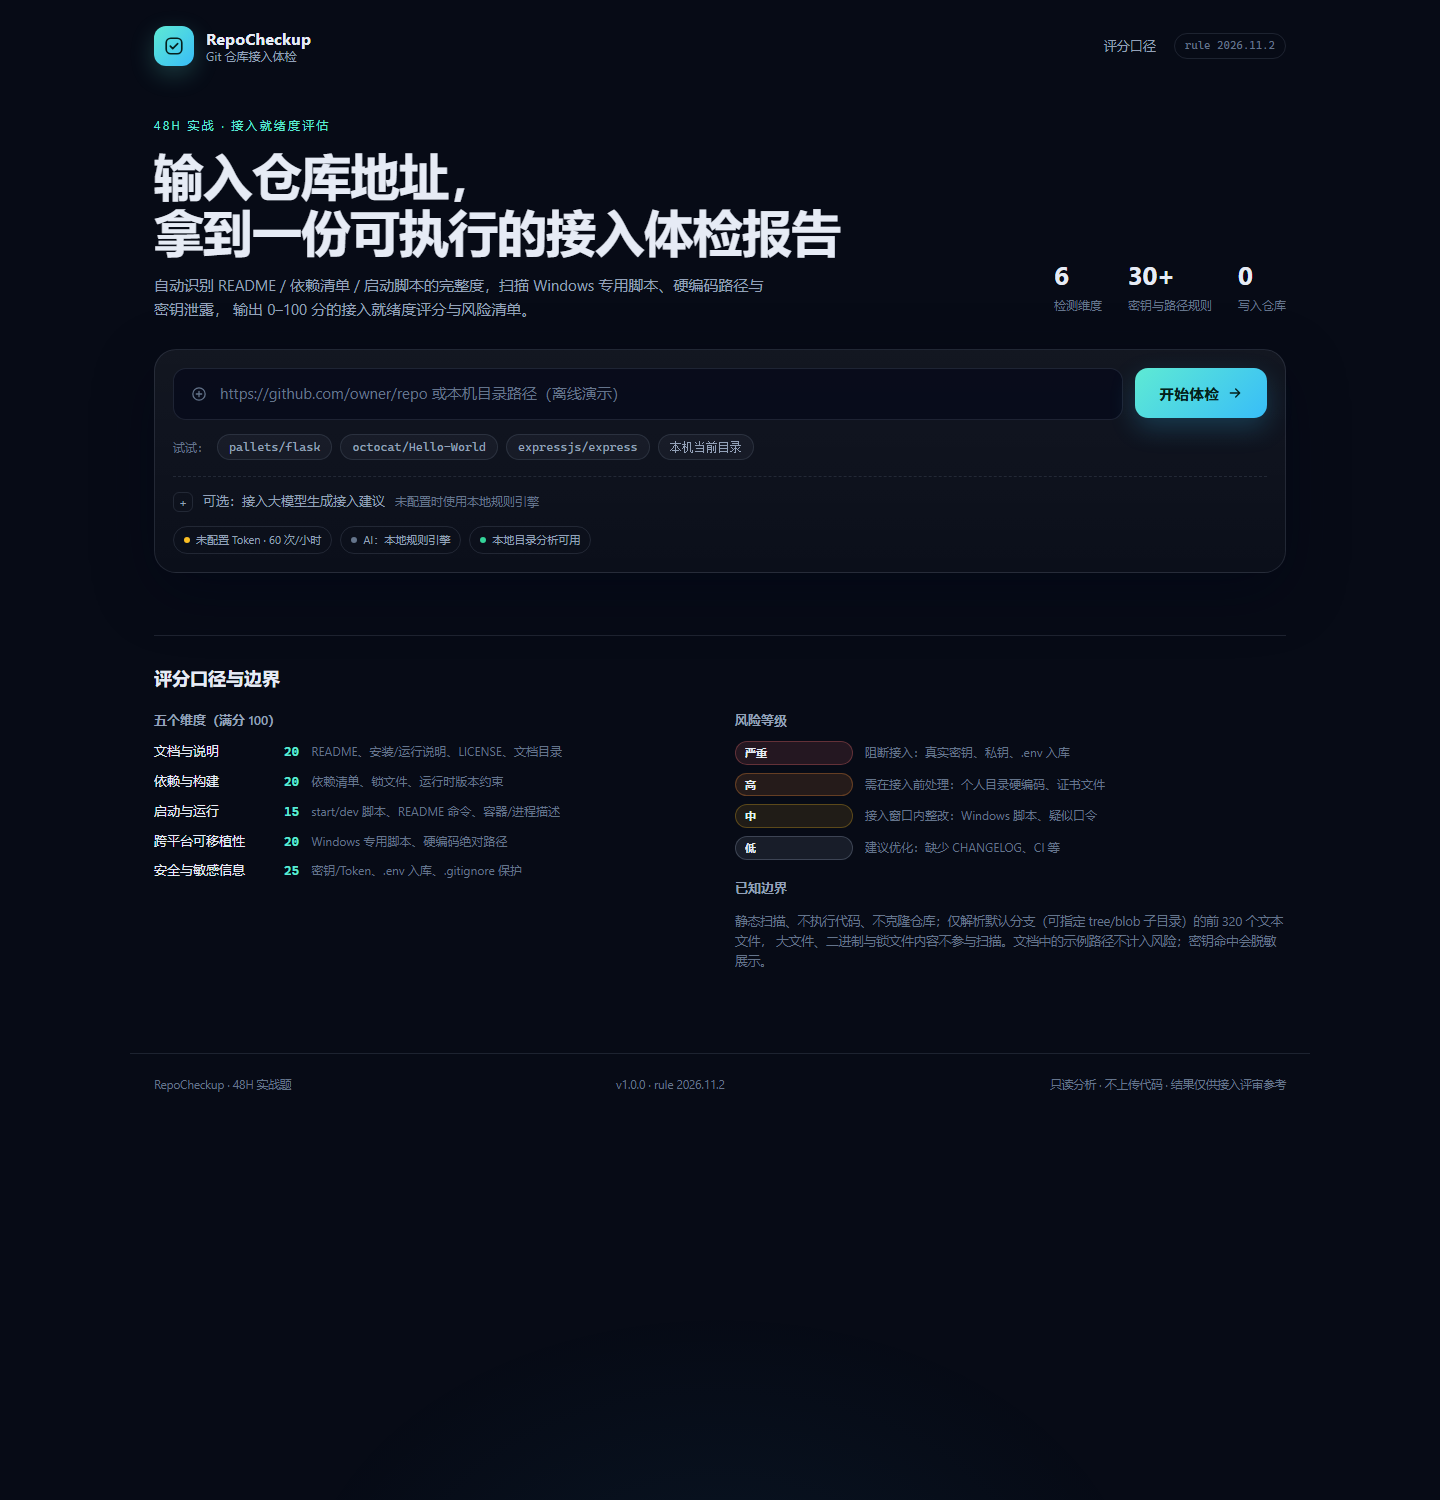
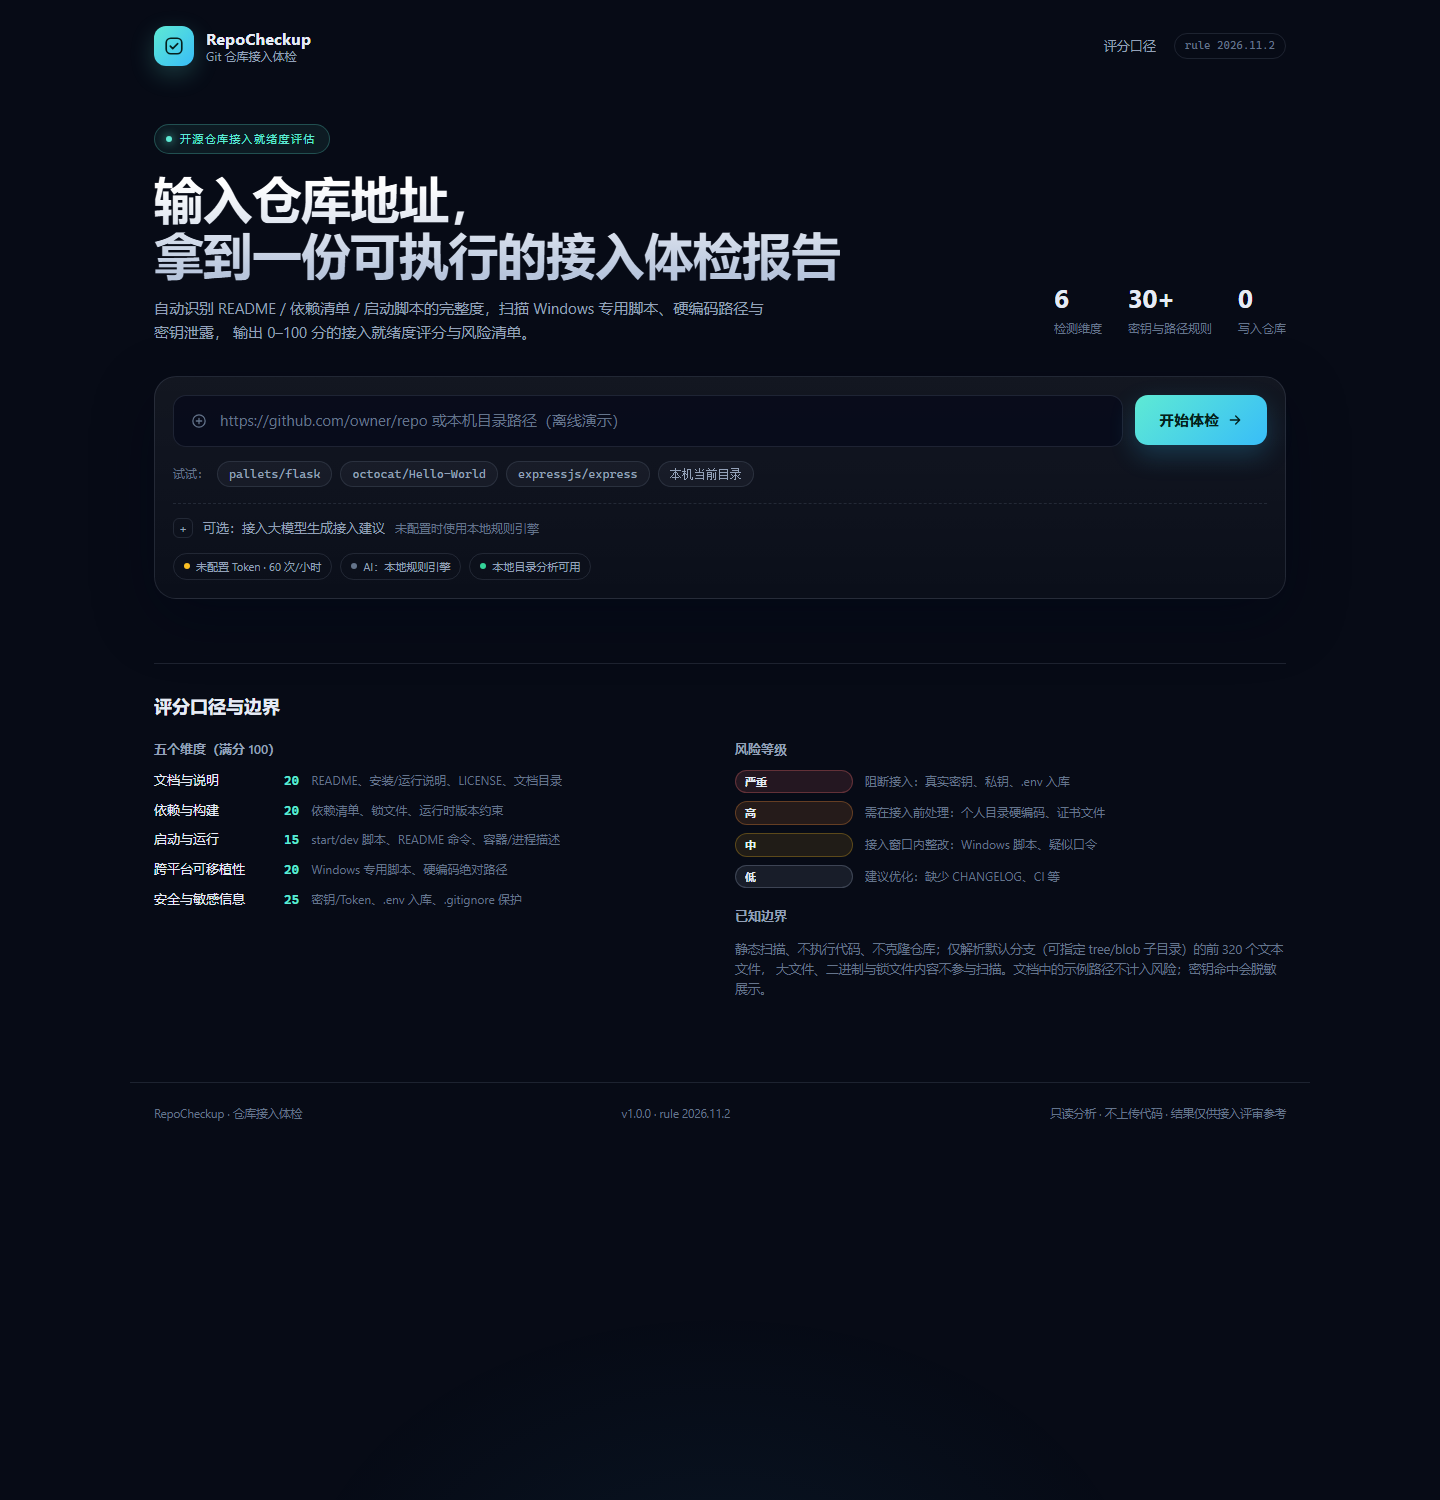
style: 首页视觉升级，去掉作业标签
- 眉标改为「开源仓库接入就绪度评估」胶囊样式，页脚改为「RepoCheckup · 仓库接入体检」
- 标题渐变、输入卡聚焦光晕、主按钮高光、卡片悬浮、评分环发光、标签页高亮等细节打磨
- 同步更新 docs/screenshots 首页与报告页截图

diff --git a/web/styles.css b/web/styles.css
@@ -854,6 +854,138 @@ h1 {
   .risk-file { max-width: 100%; }
 }
 
+/* ---------- 视觉升级 ---------- */
+::selection { background: rgba(94, 234, 212, 0.28); color: #fff; }
+
+::-webkit-scrollbar { width: 10px; height: 10px; }
+::-webkit-scrollbar-track { background: transparent; }
+::-webkit-scrollbar-thumb {
+  background: rgba(148, 163, 184, 0.22);
+  border: 2px solid transparent;
+  border-radius: 8px;
+  background-clip: content-box;
+}
+::-webkit-scrollbar-thumb:hover { background: rgba(148, 163, 184, 0.38); background-clip: content-box; }
+
+:focus-visible { outline: 2px solid rgba(94, 234, 212, 0.6); outline-offset: 2px; }
+
+/* 标题：顶部高光到冷灰的渐变字 */
+h1 {
+  background: linear-gradient(180deg, #ffffff 12%, #b7c5dc 94%);
+  -webkit-background-clip: text;
+  background-clip: text;
+  color: transparent;
+}
+
+/* 眉标改成带呼吸点的胶囊 */
+.eyebrow {
+  display: inline-flex;
+  align-items: center;
+  gap: 8px;
+  margin-bottom: 16px;
+  padding: 5px 13px 5px 11px;
+  border: 1px solid rgba(94, 234, 212, 0.26);
+  border-radius: 999px;
+  background: rgba(94, 234, 212, 0.07);
+  font-size: 11px;
+  letter-spacing: 0.12em;
+}
+.eyebrow::before {
+  content: "";
+  width: 6px;
+  height: 6px;
+  border-radius: 50%;
+  background: var(--accent);
+  box-shadow: 0 0 10px var(--accent);
+}
+
+.hero { padding: 30px 0 10px; }
+.hero-head { margin-bottom: 32px; }
+
+/* 输入卡片：聚焦时出现一圈薄光 */
+#analyze-form { transition: border-color 0.25s ease, box-shadow 0.25s ease; }
+#analyze-form:hover { border-color: var(--border-strong); }
+#analyze-form:focus-within {
+  border-color: rgba(94, 234, 212, 0.4);
+  box-shadow: 0 0 0 1px rgba(94, 234, 212, 0.16), 0 26px 72px rgba(2, 6, 23, 0.55);
+}
+
+.input-wrap { transition: border-color 0.2s ease, background 0.2s ease; }
+.input-wrap:focus-within { border-color: rgba(94, 234, 212, 0.5); background: rgba(2, 6, 23, 0.78); }
+
+/* 主按钮：掠过式高光 */
+.btn-primary { position: relative; overflow: hidden; }
+.btn-primary::after {
+  content: "";
+  position: absolute;
+  inset: 0;
+  background: linear-gradient(115deg, transparent 32%, rgba(255, 255, 255, 0.38) 50%, transparent 68%);
+  transform: translateX(-130%);
+  transition: transform 0.65s ease;
+  pointer-events: none;
+}
+.btn-primary:hover:not(:disabled)::after { transform: translateX(130%); }
+
+/* 示例胶囊 */
+.chip { transition: transform 0.18s ease, border-color 0.18s ease, color 0.18s ease, background 0.18s ease; }
+.chip:hover {
+  transform: translateY(-1px);
+  border-color: rgba(94, 234, 212, 0.42);
+  background: rgba(94, 234, 212, 0.08);
+  color: var(--text);
+}
+
+/* 卡片：轻微上浮 + 描边提亮 */
+.card {
+  transition: transform 0.22s ease, box-shadow 0.22s ease, border-color 0.22s ease;
+}
+.card:hover {
+  transform: translateY(-2px);
+  border-color: var(--border-strong);
+  box-shadow: 0 24px 54px rgba(2, 6, 23, 0.4);
+}
+
+/* 评分环：内发光 + 描边光晕 */
+.ring-wrap::before {
+  content: "";
+  position: absolute;
+  inset: 16px;
+  border-radius: 50%;
+  background: radial-gradient(circle, rgba(94, 234, 212, 0.18), transparent 68%);
+  filter: blur(12px);
+  pointer-events: none;
+}
+.ring, .ring-label { position: relative; }
+#ring-value { filter: drop-shadow(0 0 6px rgba(94, 234, 212, 0.45)); }
+
+.grade-badge { box-shadow: 0 8px 22px -10px currentColor; }
+
+/* 统计小块 */
+.stat-tile { transition: transform 0.2s ease, border-color 0.2s ease; }
+.stat-tile:hover { transform: translateY(-1px); border-color: rgba(94, 234, 212, 0.28); }
+
+/* 风险条目 */
+.risk { transition: transform 0.2s ease, border-color 0.2s ease, background 0.2s ease; }
+.risk:hover {
+  transform: translateX(2px);
+  border-color: var(--border-strong);
+  background: rgba(255, 255, 255, 0.05);
+}
+
+/* 标签页 */
+.tab { transition: color 0.18s ease; }
+.tab.active::after { box-shadow: 0 0 12px rgba(94, 234, 212, 0.5); }
+.tab:hover .tab-count { background: rgba(148, 163, 184, 0.22); }
+.tab.active .tab-count { background: rgba(94, 234, 212, 0.16); color: var(--accent); }
+
+/* 打印/低动效偏好下关闭过渡 */
+@media (prefers-reduced-motion: reduce) {
+  *, *::before, *::after {
+    animation-duration: 0.001s !important;
+    transition-duration: 0.001s !important;
+  }
+}
+
 /* ---------- Print ---------- */
 @media print {
   body { background: #fff; color: #0f172a; }

diff --git a/web/index.html b/web/index.html
@@ -33,7 +33,7 @@
     <section class="hero">
       <div class="hero-head">
         <div>
-          <p class="eyebrow">48H 实战 · 接入就绪度评估</p>
+          <p class="eyebrow">开源仓库接入就绪度评估</p>
           <h1>输入仓库地址，<br>拿到一份可执行的接入体检报告</h1>
           <p class="hero-sub">
             自动识别 README / 依赖清单 / 启动脚本的完整度，扫描 Windows 专用脚本、硬编码路径与密钥泄露，
@@ -270,7 +270,7 @@
   </main>
 
   <footer class="site-footer">
-    <span>RepoCheckup · 48H 实战题</span>
+    <span>RepoCheckup · 仓库接入体检</span>
     <span id="footer-versions"></span>
     <span>只读分析 · 不上传代码 · 结果仅供接入评审参考</span>
   </footer>
